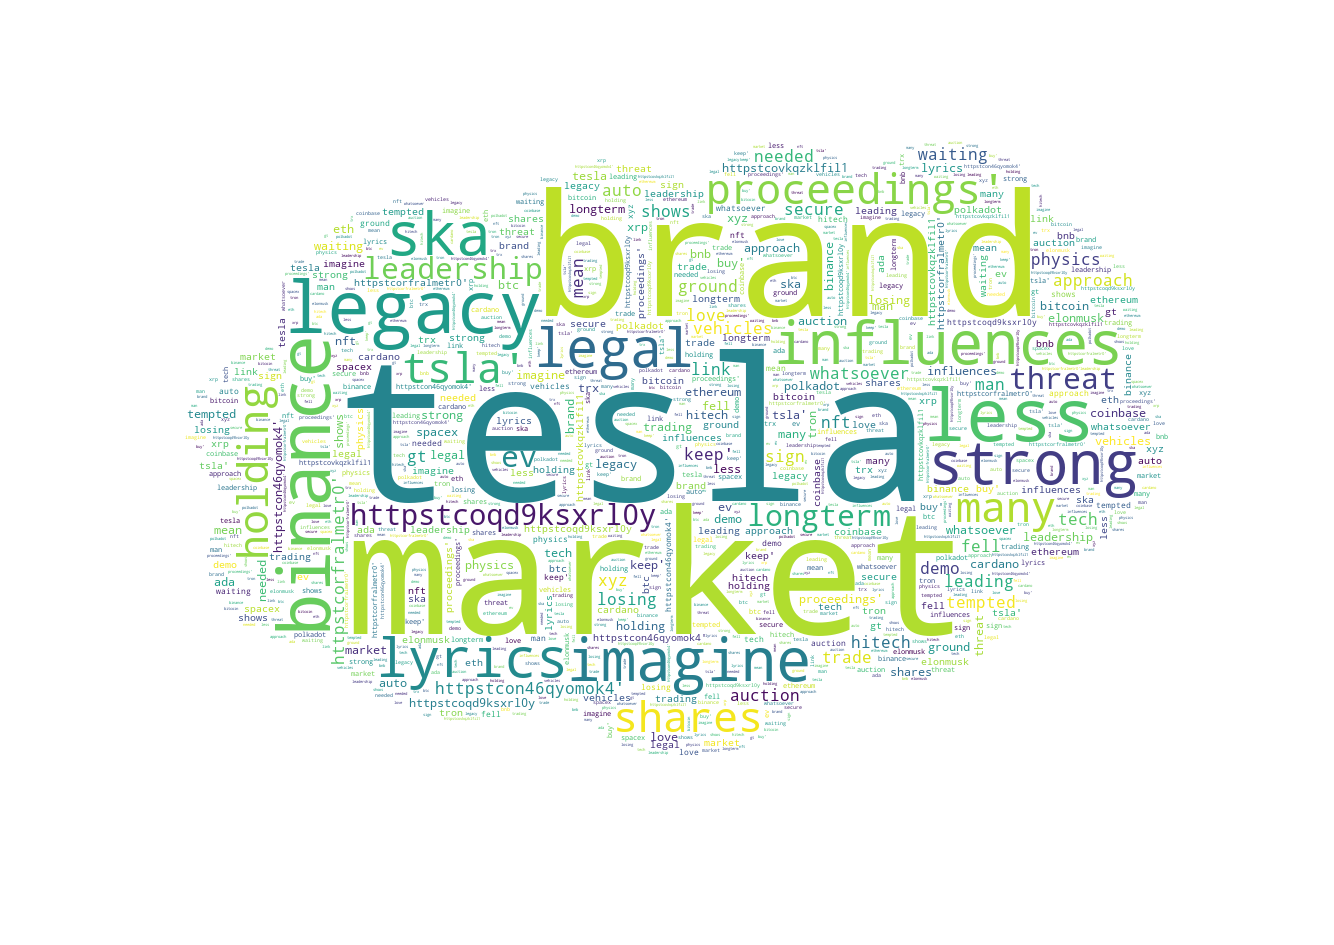
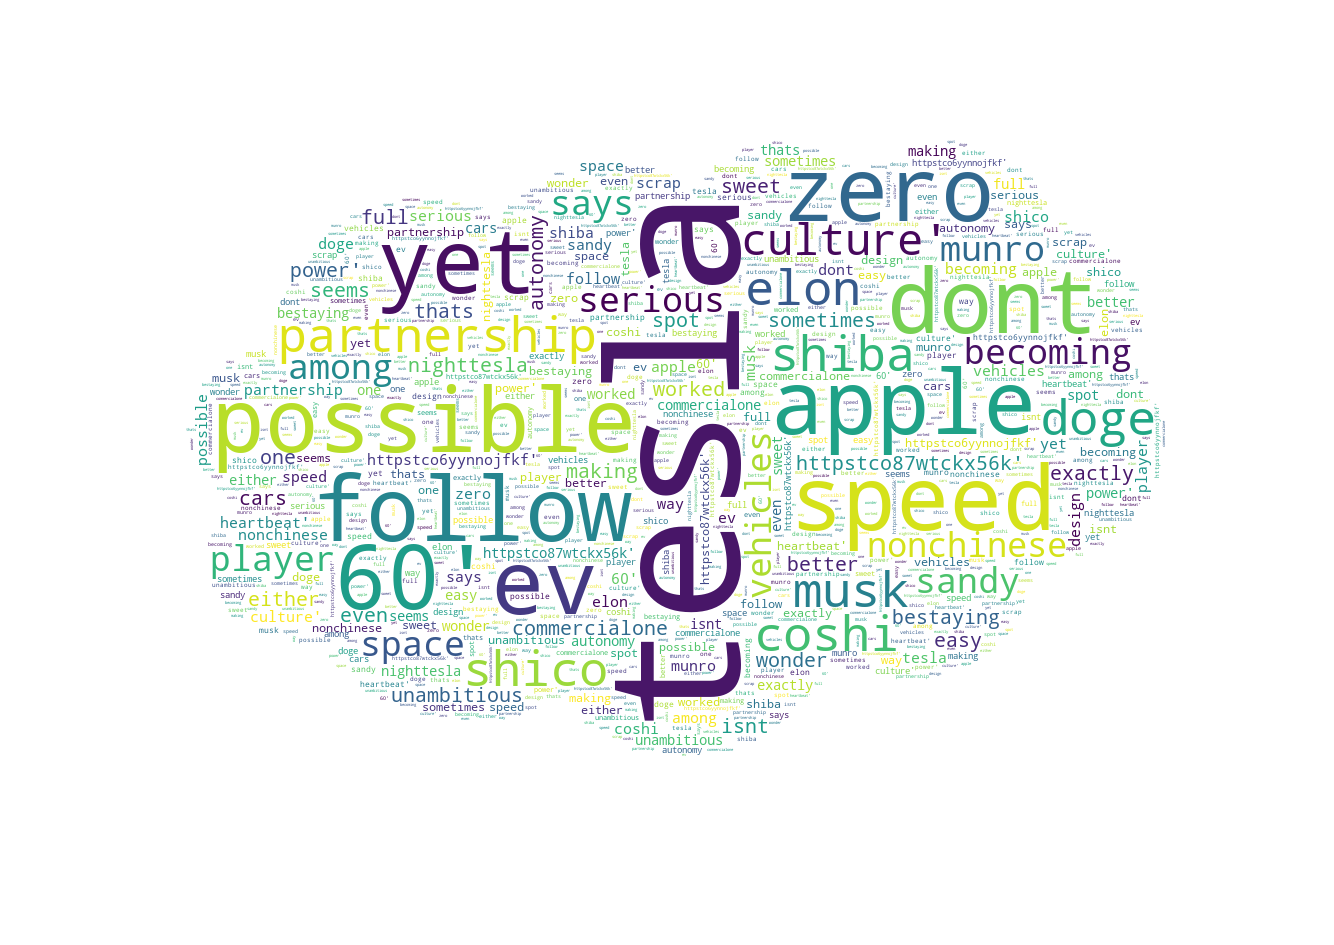
main works

Changed region(s): [[0.1229, 0.1534, 0.8913, 0.7979]]

diff --git a/plotly_graphs.py b/plotly_graphs.py
@@ -27,7 +27,7 @@ def main6():
     #line graph plot
 
     def line_graph():
-        dftweets_2 = dftweets[dftweets['new_date'].str.match('2021-09-05')]
+        dftweets_2 = dftweets[dftweets['new_date'].str.match('2021-09-07')]
 
         dftweets_2 = dftweets_2.sort_values(by = ['time'])
 
@@ -74,10 +74,10 @@ def main6():
         #print(dfstock)
     #dfstock = pd.read_csv('stock_graph.csv')
     #dftweets= pd.read_csv('data_graph.csv')
-    con = sqlite3.connect('/Users/sean/labs/Capstone/TwitterStockAnalysis/sentiment.db')
+    con = sqlite3.connect('sentiment.db')
     # need select word cloud from the day before
-    dftweets = pd.read_sql_query("SELECT * FROM nlp_analysis WHERE date LIKE '2021-09-05%'", con)   
-    dfstock = pd.read_sql_query("SELECT * FROM tsla_prices_cleaned WHERE date LIKE '2021-09-07%'", con)  
+    dftweets = pd.read_sql_query("SELECT * FROM nlp_analysis WHERE new_date LIKE '2021-09-07%'", con)   
+    dfstock = pd.read_sql_query("SELECT * FROM tsla_prices_cleaned WHERE new_date LIKE '2021-09-07%'", con)  
 
     line_graph()
     create_wordcloud(dftweets["text"].values)

diff --git a/cleaning_tsla_prices.py b/cleaning_tsla_prices.py
@@ -50,7 +50,7 @@ def main5():
     df_3 = df_2_columns
 
     # our select statement, probably gonna modify
-    df_4 = df_3[df_3['new_date'].str.match('2021-09-03')]
+    df_4 = df_3[df_3['new_date'].str.match('2021-09-07')]
 
 
     df_4 = df_4.sort_values(by = ['time'])
@@ -59,7 +59,8 @@ def main5():
 
     # create a new df without values after 4:30
     for index, row in df_4.iterrows():
-    #print(row.to_frame())
+        print(row)
+        print('hello')
         if row['time'] != '16:30':
             df_5 = df_5.append(row)
         else:
@@ -71,10 +72,12 @@ def main5():
     sqlite_connection = engine.connect()
 
     sqlite_table = "tsla_prices_cleaned"
+    
 
     # leave this as replace
     df_5.to_sql(sqlite_table, sqlite_connection, if_exists = 'replace')
     sqlite_connection.close()
+    print(df_5)
 
 if __name__ == '__main__':
     main5()

diff --git a/cleaning_nlp.py b/cleaning_nlp.py
@@ -11,10 +11,10 @@ from pytz import timezone
 
 
 def main3():
-    con = sqlite3.connect('/Users/sean/labs/Capstone/TwitterStockAnalysis/sentiment.db')
+    con = sqlite3.connect('sentiment.db')
 
     #df = pd.read_sql_query("SELECT * FROM spark_cleaned", con)
-    df = pd.read_sql_query("SELECT * FROM spark_cleaned WHERE date_time LIKE '2021-09-05%' ", con)
+    df = pd.read_sql_query("SELECT * FROM spark_cleaned WHERE date_time LIKE '2021-09-07%' ", con)
     df = df.rename(columns = {'date_time': 'date_time_est'})    
     df = df.drop_duplicates()
 

diff --git a/main.py b/main.py
@@ -1,6 +1,6 @@
-import api_tesla_twitter
+#import api_tesla_twitter
 import api_tesla_stock
-import cleaning_spark
+#import cleaning_spark
 import cleaning_nlp
 import cleaning_tsla_prices
 import plotly_graphs
@@ -10,8 +10,8 @@ import plotly_graphs
 
 
 if __name__ == '__main__':
-    api_tesla_twitter.main()
-    cleaning_spark.main2()
+    #api_tesla_twitter.main()
+    #cleaning_spark.main2()
     cleaning_nlp.main3()
     api_tesla_stock.main4()
     cleaning_tsla_prices.main5()

diff --git a/cleaning_spark.py b/cleaning_spark.py
@@ -10,7 +10,7 @@ from sqlalchemy import create_engine
 def main2():
     con = sqlite3.connect('sentiment.db')
 
-    df = pd.read_sql_query("SELECT * FROM sentiment WHERE date_time LIKE '2021-09-05%' ", con)
+    df = pd.read_sql_query("SELECT * FROM sentiment WHERE date_time LIKE '2021-09-07%' ", con)
 
     # create SparkSession
     spark = SparkSession.builder \
